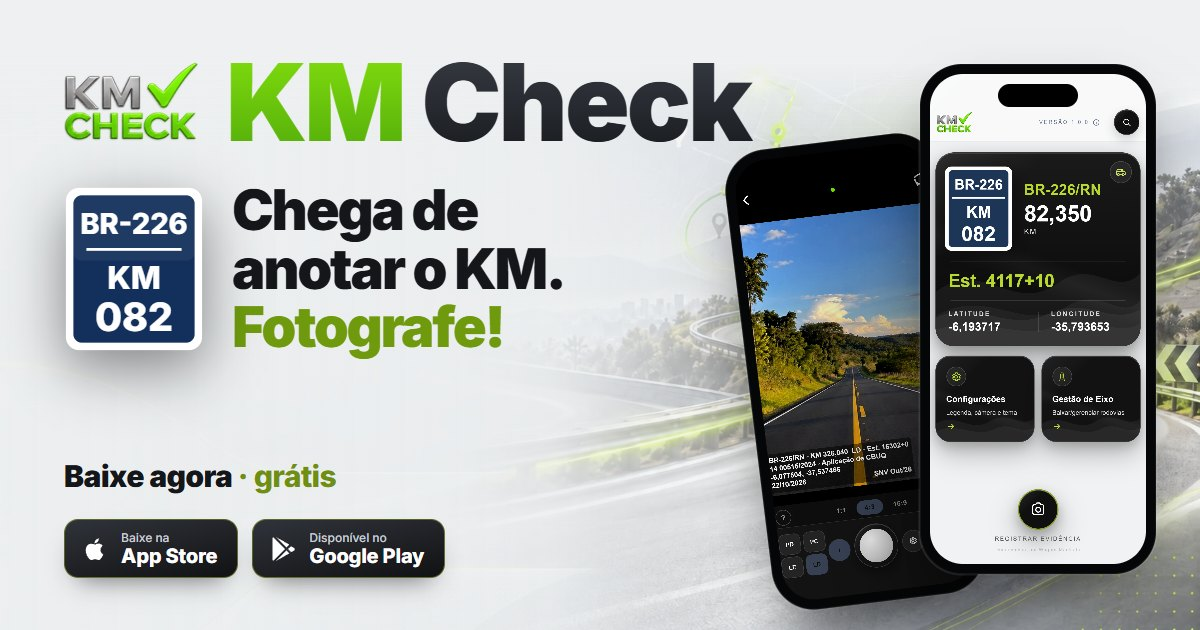
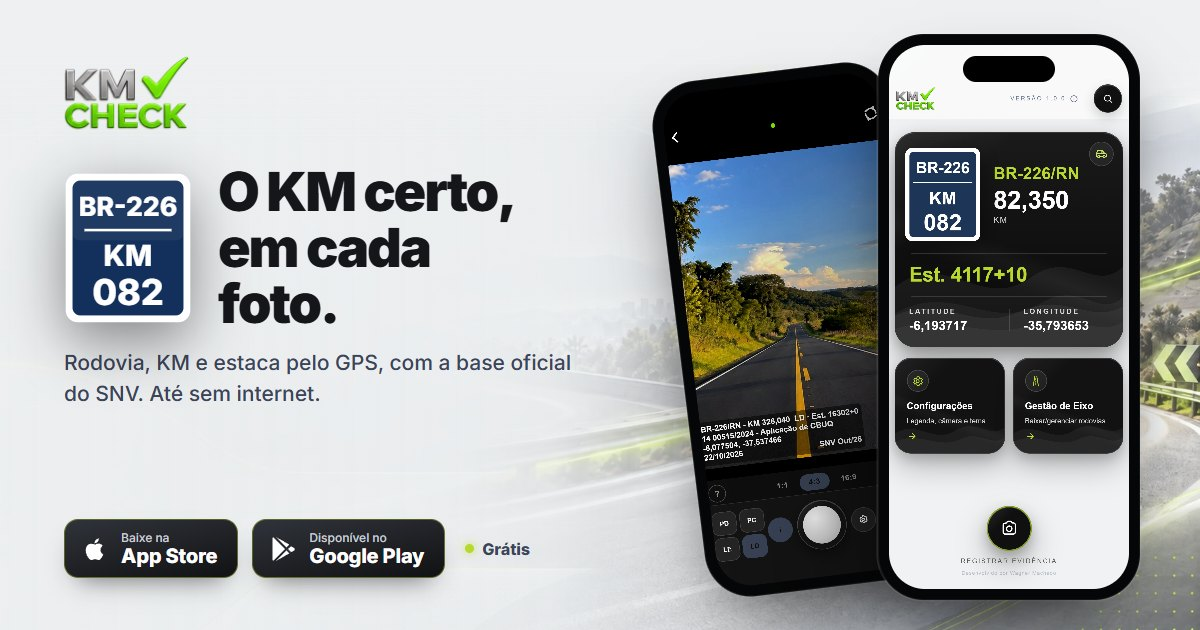
Cartão do link /baixar: volta para a arte "O KM certo, em cada foto." com os dois celulares

diff --git a/baixar/index.html b/baixar/index.html
@@ -16,7 +16,7 @@
 <meta property="og:image" content="https://kmcheck.com.br/baixar/og.jpg">
 <meta property="og:image:width" content="1200">
 <meta property="og:image:height" content="630">
-<meta property="og:image:alt" content="KM Check: chega de anotar o KM. Fotografe!">
+<meta property="og:image:alt" content="KM Check: o KM certo, em cada foto">
 <meta property="og:locale" content="pt_BR">
 <meta name="twitter:card" content="summary_large_image">
 <link rel="icon" href="../icon-192.png">
@@ -75,7 +75,7 @@ h1{font:900 clamp(26px,4.4vw,40px)/1.08 Inter,sans-serif;letter-spacing:-.03em;m
   <section class="baixo">
     <div class="txt">
       <span class="olho">Baixe grátis</span>
-      <h1>Chega de anotar o KM. Fotografe!</h1>
+      <h1>O KM certo, em cada foto.</h1>
       <p class="sub">Rodovia, KM, estaca, coordenadas, data e hora na própria imagem, com a base oficial do SNV. Funciona sem internet depois de baixar a rodovia.</p>
       <div class="lojas">
         <a class="loja" href="https://apps.apple.com/br/app/km-check/id6823640306" rel="noopener">
